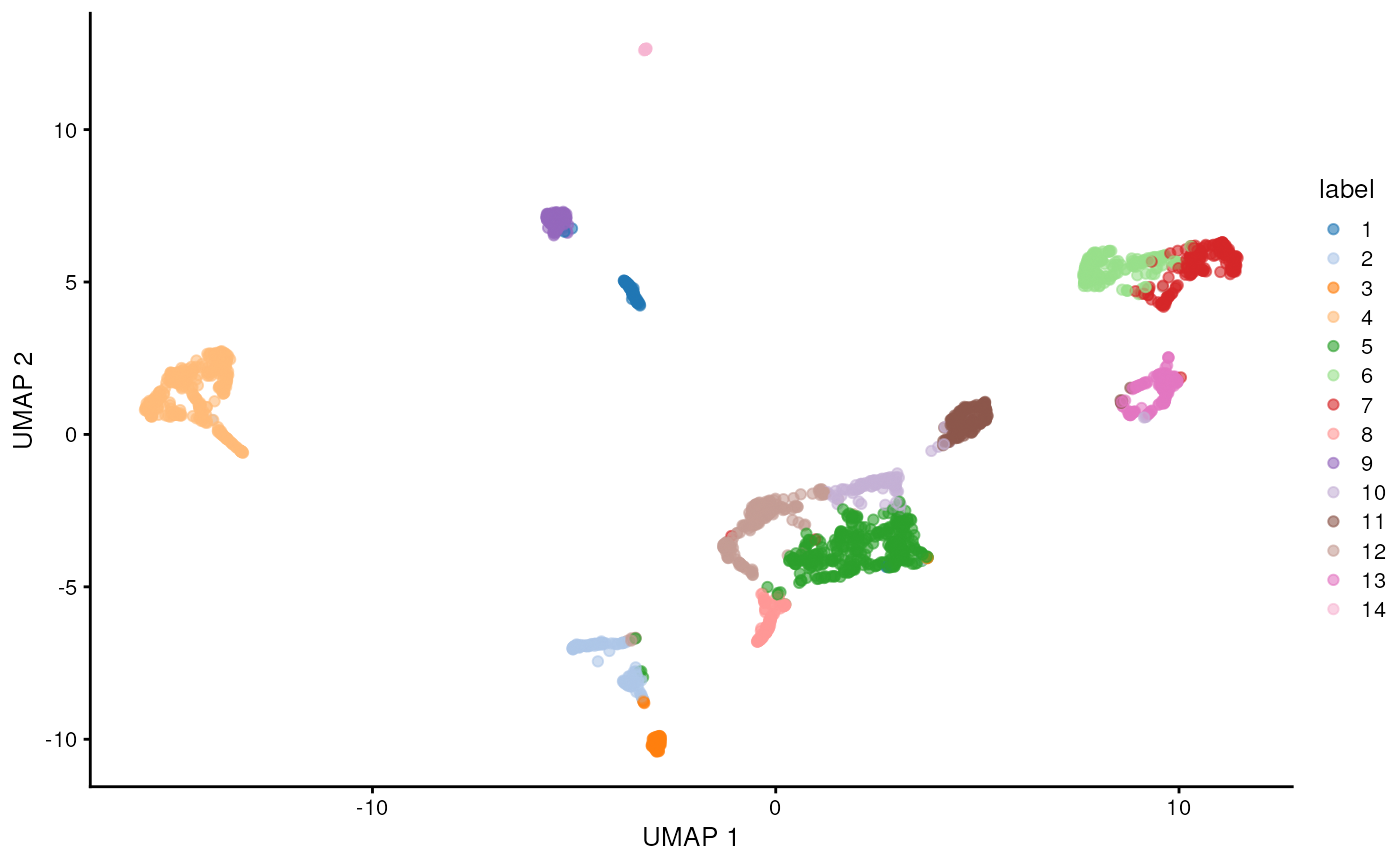
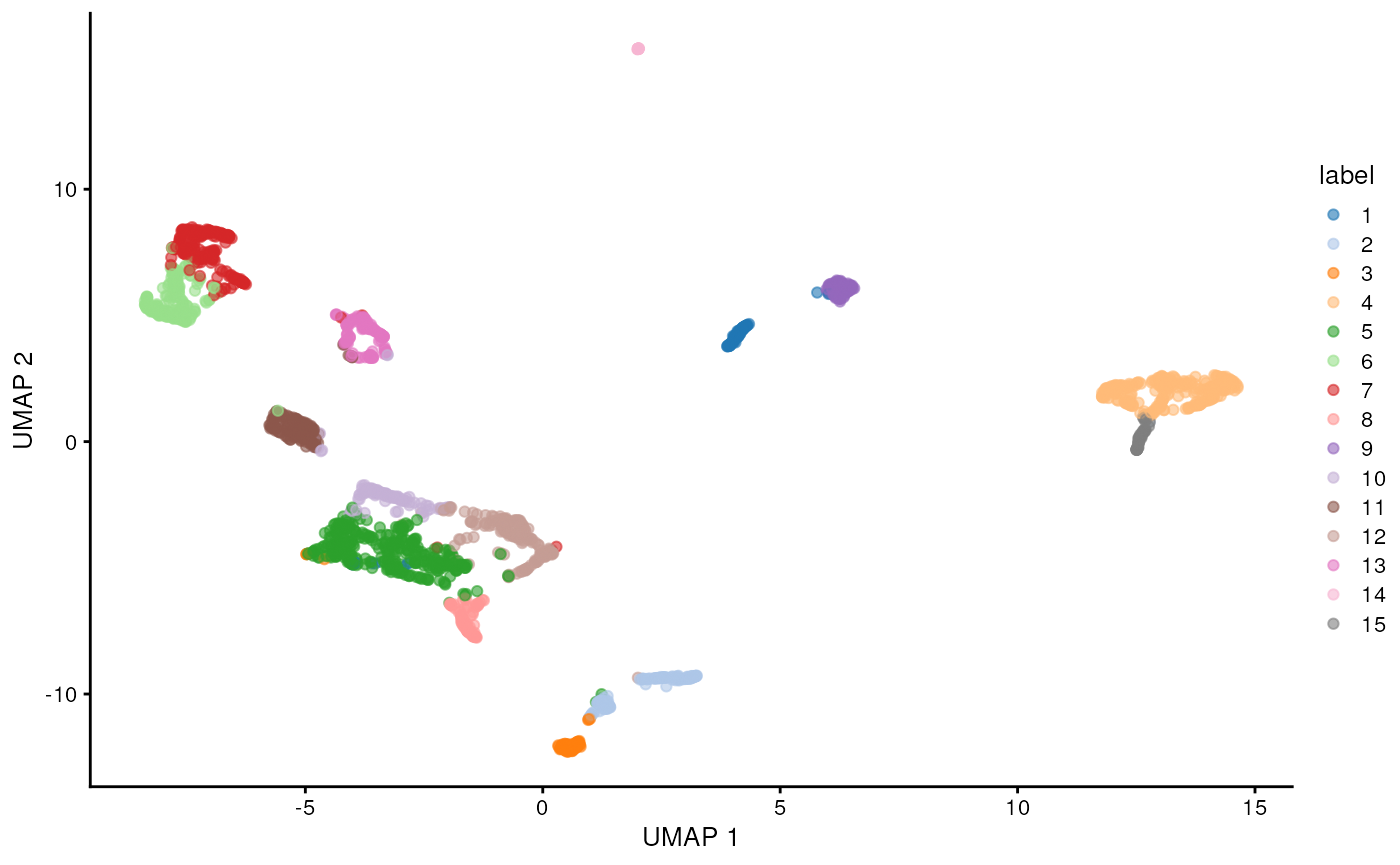
Deploying to gh-pages from @ Bioconductor/ISMB.OSCA@23236957839230d050c05fd3f0916738273243bc 🚀

diff --git a/articles/cell_type_annotation.html b/articles/cell_type_annotation.html
@@ -133,23 +133,6 @@
 <div class="sourceCode" id="cb4"><pre class="downlit sourceCode r">
 <code class="sourceCode R"><span><span class="va">sce</span> <span class="op">&lt;-</span> <span class="fu"><a href="https://rdrr.io/pkg/scuttle/man/logNormCounts.html" class="external-link">logNormCounts</a></span><span class="op">(</span><span class="va">sce</span><span class="op">)</span></span>
 <span><span class="va">sce</span> <span class="op">&lt;-</span> <span class="fu"><a href="https://rdrr.io/pkg/BiocSingular/man/runPCA.html" class="external-link">runPCA</a></span><span class="op">(</span><span class="va">sce</span><span class="op">)</span></span></code></pre></div>
-<pre><code><span><span class="co">## Warning: useNames = NA is deprecated. Instead, specify either useNames = TRUE</span></span>
-<span><span class="co">## or useNames = TRUE.</span></span>
-<span></span>
-<span><span class="co">## Warning: useNames = NA is deprecated. Instead, specify either useNames = TRUE</span></span>
-<span><span class="co">## or useNames = TRUE.</span></span>
-<span></span>
-<span><span class="co">## Warning: useNames = NA is deprecated. Instead, specify either useNames = TRUE</span></span>
-<span><span class="co">## or useNames = TRUE.</span></span>
-<span></span>
-<span><span class="co">## Warning: useNames = NA is deprecated. Instead, specify either useNames = TRUE</span></span>
-<span><span class="co">## or useNames = TRUE.</span></span>
-<span></span>
-<span><span class="co">## Warning: useNames = NA is deprecated. Instead, specify either useNames = TRUE</span></span>
-<span><span class="co">## or useNames = TRUE.</span></span>
-<span></span>
-<span><span class="co">## Warning: useNames = NA is deprecated. Instead, specify either useNames = TRUE</span></span>
-<span><span class="co">## or useNames = TRUE.</span></span></code></pre>
 </div>
 <div class="section level2">
 <h2 id="clustering">Clustering<a class="anchor" aria-label="anchor" href="#clustering"></a>
@@ -180,18 +163,18 @@ algorithm</a> for community detection. All calculations are performed
 using the top PCs to take advantage of data compression and denoising.
 This function returns a vector containing cluster assignments for each
 cell in our <code>SingleCellExperiment</code> object.</p>
-<div class="sourceCode" id="cb6"><pre class="downlit sourceCode r">
+<div class="sourceCode" id="cb5"><pre class="downlit sourceCode r">
 <code class="sourceCode R"><span><span class="fu"><a href="https://rdrr.io/pkg/SingleCellExperiment/man/colLabels.html" class="external-link">colLabels</a></span><span class="op">(</span><span class="va">sce</span><span class="op">)</span> <span class="op">&lt;-</span> <span class="fu"><a href="https://rdrr.io/pkg/scran/man/clusterCells.html" class="external-link">clusterCells</a></span><span class="op">(</span><span class="va">sce</span>, use.dimred <span class="op">=</span> <span class="st">"PCA"</span>,</span>
 <span>                               BLUSPARAM <span class="op">=</span> <span class="fu"><a href="https://rdrr.io/pkg/bluster/man/NNGraphParam-class.html" class="external-link">NNGraphParam</a></span><span class="op">(</span>cluster.fun <span class="op">=</span> <span class="st">"louvain"</span><span class="op">)</span><span class="op">)</span></span>
 <span><span class="fu"><a href="https://rdrr.io/r/base/table.html" class="external-link">table</a></span><span class="op">(</span><span class="fu"><a href="https://rdrr.io/pkg/SingleCellExperiment/man/colLabels.html" class="external-link">colLabels</a></span><span class="op">(</span><span class="va">sce</span><span class="op">)</span><span class="op">)</span></span></code></pre></div>
 <pre><code><span><span class="co">## </span></span>
-<span><span class="co">##   1   2   3   4   5   6   7   8   9  10  11  12  13  14 </span></span>
-<span><span class="co">##  91 144  75 397 397 209 246  95 108 114 154 215 146  20</span></span></code></pre>
+<span><span class="co">##   1   2   3   4   5   6   7   8   9  10  11  12  13  14  15 </span></span>
+<span><span class="co">##  95 144  77 341 392 210 246  95 108 120 153 208 146  20  56</span></span></code></pre>
 <p>We assign the cluster assignments back into our
 <code>SingleCellExperiment</code> object as a <code>factor</code> in the
 column metadata. This allows us to conveniently visualize the
 distribution of clusters in eg. a <em>t</em>-SNE or a UMAP.</p>
-<div class="sourceCode" id="cb8"><pre class="downlit sourceCode r">
+<div class="sourceCode" id="cb7"><pre class="downlit sourceCode r">
 <code class="sourceCode R"><span><span class="va">sce</span> <span class="op">&lt;-</span> <span class="fu"><a href="https://rdrr.io/pkg/scater/man/runUMAP.html" class="external-link">runUMAP</a></span><span class="op">(</span><span class="va">sce</span>, dimred <span class="op">=</span> <span class="st">"PCA"</span><span class="op">)</span></span>
 <span><span class="fu"><a href="https://rdrr.io/pkg/scater/man/plotReducedDim.html" class="external-link">plotReducedDim</a></span><span class="op">(</span><span class="va">sce</span>, <span class="st">"UMAP"</span>, color_by <span class="op">=</span> <span class="st">"label"</span><span class="op">)</span></span></code></pre></div>
 <p><img src="cell_type_annotation_files/figure-html/cluster-viz-1.png" width="700"></p>
@@ -207,9 +190,10 @@ the <code>cluster_leiden</code> function from the <a href="https://cran.r-projec
 package. Use the <code>cluster.args</code> argument to parameterize the
 clustering to use modularity as the objective function and a resolution
 parameter of 0.5.</p>
-<div class="section level3">
-<h3 id="marker-gene-detection">Marker gene detection<a class="anchor" aria-label="anchor" href="#marker-gene-detection"></a>
-</h3>
+</div>
+<div class="section level2">
+<h2 id="marker-gene-detection">Marker gene detection<a class="anchor" aria-label="anchor" href="#marker-gene-detection"></a>
+</h2>
 <p>To interpret clustering results as obtained in the previous section,
 we identify the genes that drive separation between clusters. These
 marker genes allow us to assign biological meaning to each cluster based
@@ -224,71 +208,59 @@ of cells in the clustering algorithm.</p>
 <p>Here, we perform a Wilcoxon rank sum test against a log2 fold change
 threshold of 1, focusing on up-regulated (positive) markers in one
 cluster when compared to another cluster.</p>
-<div class="sourceCode" id="cb9"><pre class="downlit sourceCode r">
-<code class="sourceCode R"><span><span class="va">markers</span> <span class="op">&lt;-</span> <span class="fu"><a href="https://rdrr.io/pkg/scran/man/findMarkers.html" class="external-link">findMarkers</a></span><span class="op">(</span><span class="va">sce</span>, test.type <span class="op">=</span> <span class="st">"wilcox"</span>, direction <span class="op">=</span> <span class="st">"up"</span>, lfc <span class="op">=</span> <span class="fl">1</span><span class="op">)</span></span>
+<div class="sourceCode" id="cb8"><pre class="downlit sourceCode r">
+<code class="sourceCode R"><span><span class="fu"><a href="https://rdrr.io/r/base/colnames.html" class="external-link">rownames</a></span><span class="op">(</span><span class="va">sce</span><span class="op">)</span> <span class="op">&lt;-</span> <span class="fu"><a href="https://rdrr.io/pkg/SummarizedExperiment/man/SummarizedExperiment-class.html" class="external-link">rowData</a></span><span class="op">(</span><span class="va">sce</span><span class="op">)</span><span class="op">$</span><span class="va">SYMBOL</span></span>
+<span><span class="va">markers</span> <span class="op">&lt;-</span> <span class="fu"><a href="https://rdrr.io/pkg/scran/man/findMarkers.html" class="external-link">findMarkers</a></span><span class="op">(</span><span class="va">sce</span>, test.type <span class="op">=</span> <span class="st">"wilcox"</span>, direction <span class="op">=</span> <span class="st">"up"</span>, lfc <span class="op">=</span> <span class="fl">1</span><span class="op">)</span></span>
 <span><span class="va">markers</span></span></code></pre></div>
-<pre><code><span><span class="co">## List of length 14</span></span>
-<span><span class="co">## names(14): 1 2 3 4 5 6 7 8 9 10 11 12 13 14</span></span></code></pre>
+<pre><code><span><span class="co">## List of length 15</span></span>
+<span><span class="co">## names(15): 1 2 3 4 5 6 7 8 9 10 11 12 13 14 15</span></span></code></pre>
 <p>The resulting object contains a sorted marker gene list for each
 cluster, in which the top genes are those that contribute the most to
 the separation of that cluster from mall other clusters.</p>
 <p>Here, we inspect the ranked marker gene list for the first
 cluster.</p>
-<div class="sourceCode" id="cb11"><pre class="downlit sourceCode r">
+<div class="sourceCode" id="cb10"><pre class="downlit sourceCode r">
 <code class="sourceCode R"><span><span class="va">markers</span><span class="op">[[</span><span class="fl">1</span><span class="op">]</span><span class="op">]</span></span></code></pre></div>
-<pre><code><span><span class="co">## DataFrame with 29453 rows and 17 columns</span></span>
-<span><span class="co">##                          Top     p.value         FDR summary.AUC     AUC.2</span></span>
-<span><span class="co">##                    &lt;integer&gt;   &lt;numeric&gt;   &lt;numeric&gt;   &lt;numeric&gt; &lt;numeric&gt;</span></span>
-<span><span class="co">## ENSMUSG00000049866         1 3.92896e-90 3.85732e-86    0.998644  0.908349</span></span>
-<span><span class="co">## ENSMUSG00000028023         1 1.40465e-80 4.59680e-77    0.952612  0.942308</span></span>
-<span><span class="co">## ENSMUSG00000003153         1 7.27172e-43 1.89535e-40    0.961359  0.890797</span></span>
-<span><span class="co">## ENSMUSG00000032060         1 1.76158e-73 3.45892e-70    0.958563  0.942537</span></span>
-<span><span class="co">## ENSMUSG00000042757         1 2.00077e-94 5.89286e-90    0.997979  0.944902</span></span>
-<span><span class="co">## ...                      ...         ...         ...         ...       ...</span></span>
-<span><span class="co">## ENSMUSG00000079794     29448           1           1           0         0</span></span>
-<span><span class="co">## ENSMUSG00000094799     29449           1           1           0         0</span></span>
-<span><span class="co">## ENSMUSG00000095019     29450           1           1           0         0</span></span>
-<span><span class="co">## ENSMUSG00000094915     29451           1           1           0         0</span></span>
-<span><span class="co">## ENSMUSG00000096730     29453           1           1           0         0</span></span>
-<span><span class="co">##                        AUC.3     AUC.4     AUC.5     AUC.6     AUC.7     AUC.8</span></span>
-<span><span class="co">##                    &lt;numeric&gt; &lt;numeric&gt; &lt;numeric&gt; &lt;numeric&gt; &lt;numeric&gt; &lt;numeric&gt;</span></span>
-<span><span class="co">## ENSMUSG00000049866  0.991502  0.998644  0.669499  0.911562  0.864514  0.942279</span></span>
-<span><span class="co">## ENSMUSG00000028023  0.774359  0.952612  0.810696  0.952101  0.948718  0.759630</span></span>
-<span><span class="co">## ENSMUSG00000003153  0.937729  0.961359  0.879481  0.696041  0.705843  0.886293</span></span>
-<span><span class="co">## ENSMUSG00000032060  0.909890  0.958563  0.953691  0.962721  0.963191  0.262348</span></span>
-<span><span class="co">## ENSMUSG00000042757  0.912674  0.997979  0.934564  0.962091  0.934691  0.665703</span></span>
-<span><span class="co">## ...                      ...       ...       ...       ...       ...       ...</span></span>
-<span><span class="co">## ENSMUSG00000079794         0         0         0         0         0         0</span></span>
-<span><span class="co">## ENSMUSG00000094799         0         0         0         0         0         0</span></span>
-<span><span class="co">## ENSMUSG00000095019         0         0         0         0         0         0</span></span>
-<span><span class="co">## ENSMUSG00000094915         0         0         0         0         0         0</span></span>
-<span><span class="co">## ENSMUSG00000096730         0         0         0         0         0         0</span></span>
-<span><span class="co">##                        AUC.9    AUC.10    AUC.11    AUC.12    AUC.13</span></span>
-<span><span class="co">##                    &lt;numeric&gt; &lt;numeric&gt; &lt;numeric&gt; &lt;numeric&gt; &lt;numeric&gt;</span></span>
-<span><span class="co">## ENSMUSG00000049866  0.870065  0.979853  0.942914  0.924406  0.735059</span></span>
-<span><span class="co">## ENSMUSG00000028023  0.421245  0.935512  0.952547  0.878456  0.853229</span></span>
-<span><span class="co">## ENSMUSG00000003153  0.894587  0.944573  0.386685  0.962075  0.299187</span></span>
-<span><span class="co">## ENSMUSG00000032060  0.349105  0.957297  0.959612  0.957271  0.917883</span></span>
-<span><span class="co">## ENSMUSG00000042757  0.395910  0.983420  0.956615  0.963046  0.959506</span></span>
-<span><span class="co">## ...                      ...       ...       ...       ...       ...</span></span>
-<span><span class="co">## ENSMUSG00000079794         0         0         0         0         0</span></span>
-<span><span class="co">## ENSMUSG00000094799         0         0         0         0         0</span></span>
-<span><span class="co">## ENSMUSG00000095019         0         0         0         0         0</span></span>
-<span><span class="co">## ENSMUSG00000094915         0         0         0         0         0</span></span>
-<span><span class="co">## ENSMUSG00000096730         0         0         0         0         0</span></span>
-<span><span class="co">##                         AUC.14</span></span>
-<span><span class="co">##                      &lt;numeric&gt;</span></span>
-<span><span class="co">## ENSMUSG00000049866 0.095604396</span></span>
-<span><span class="co">## ENSMUSG00000028023 0.938461538</span></span>
-<span><span class="co">## ENSMUSG00000003153 0.000549451</span></span>
-<span><span class="co">## ENSMUSG00000032060 0.459890110</span></span>
-<span><span class="co">## ENSMUSG00000042757 0.567582418</span></span>
-<span><span class="co">## ...                        ...</span></span>
-<span><span class="co">## ENSMUSG00000079794           0</span></span>
-<span><span class="co">## ENSMUSG00000094799           0</span></span>
-<span><span class="co">## ENSMUSG00000095019           0</span></span>
-<span><span class="co">## ENSMUSG00000094915           0</span></span>
-<span><span class="co">## ENSMUSG00000096730           0</span></span></code></pre>
+<pre><code><span><span class="co">## DataFrame with 29453 rows and 18 columns</span></span>
+<span><span class="co">##                  Top     p.value         FDR summary.AUC     AUC.2     AUC.3</span></span>
+<span><span class="co">##            &lt;integer&gt;   &lt;numeric&gt;   &lt;numeric&gt;   &lt;numeric&gt; &lt;numeric&gt; &lt;numeric&gt;</span></span>
+<span><span class="co">## Arl4c              1 2.65826e-83 3.91468e-79    0.998796  0.905482  0.990157</span></span>
+<span><span class="co">## Pitx2              1 2.12479e-70 6.25814e-67    0.943973  0.932968  0.764320</span></span>
+<span><span class="co">## Msx1               1 3.82512e-55 2.08632e-52    0.948727  0.887573  0.572112</span></span>
+<span><span class="co">## Slc2a3             1 4.05884e-43 1.10690e-40    0.961506  0.872515  0.918113</span></span>
+<span><span class="co">## Cryab              1 1.19792e-60 9.28481e-58    0.923335  0.911915  0.880519</span></span>
+<span><span class="co">## ...              ...         ...         ...         ...       ...       ...</span></span>
+<span><span class="co">## AC125149.2     29448           1           1           0         0         0</span></span>
+<span><span class="co">## AC125149.4     29449           1           1           0         0         0</span></span>
+<span><span class="co">## AC234645.1     29450           1           1           0         0         0</span></span>
+<span><span class="co">## AC168977.2     29451           1           1           0         0         0</span></span>
+<span><span class="co">## Vmn2r122       29453           1           1           0         0         0</span></span>
+<span><span class="co">##                AUC.4     AUC.5     AUC.6     AUC.7     AUC.8     AUC.9</span></span>
+<span><span class="co">##            &lt;numeric&gt; &lt;numeric&gt; &lt;numeric&gt; &lt;numeric&gt; &lt;numeric&gt; &lt;numeric&gt;</span></span>
+<span><span class="co">## Arl4c       0.998796  0.663561  0.907068  0.858451  0.939391  0.863840</span></span>
+<span><span class="co">## Pitx2       0.943973  0.798926  0.943208  0.939538  0.750360  0.406725</span></span>
+<span><span class="co">## Msx1        0.948727  0.494280  0.835890  0.887634  0.936510  0.741618</span></span>
+<span><span class="co">## Slc2a3      0.961506  0.861654  0.672632  0.680359  0.867922  0.874659</span></span>
+<span><span class="co">## Cryab       0.928261  0.923335  0.932481  0.932777  0.252078  0.334600</span></span>
+<span><span class="co">## ...              ...       ...       ...       ...       ...       ...</span></span>
+<span><span class="co">## AC125149.2         0         0         0         0         0         0</span></span>
+<span><span class="co">## AC125149.4         0         0         0         0         0         0</span></span>
+<span><span class="co">## AC234645.1         0         0         0         0         0         0</span></span>
+<span><span class="co">## AC168977.2         0         0         0         0         0         0</span></span>
+<span><span class="co">## Vmn2r122           0         0         0         0         0         0</span></span>
+<span><span class="co">##               AUC.10    AUC.11    AUC.12    AUC.13      AUC.14    AUC.15</span></span>
+<span><span class="co">##            &lt;numeric&gt; &lt;numeric&gt; &lt;numeric&gt; &lt;numeric&gt;   &lt;numeric&gt; &lt;numeric&gt;</span></span>
+<span><span class="co">## Arl4c       0.978684  0.938424  0.919534  0.727181 0.092631579  0.997368</span></span>
+<span><span class="co">## Pitx2       0.925088  0.943584  0.867206  0.844484 0.928947368  0.942105</span></span>
+<span><span class="co">## Msx1        0.711228  0.494118  0.913411  0.704831 0.395789474  0.953759</span></span>
+<span><span class="co">## Slc2a3      0.934649  0.368903  0.952379  0.287671 0.000526316  0.877820</span></span>
+<span><span class="co">## Cryab       0.924474  0.929068  0.928188  0.887383 0.441052632  0.926692</span></span>
+<span><span class="co">## ...              ...       ...       ...       ...         ...       ...</span></span>
+<span><span class="co">## AC125149.2         0         0         0         0           0         0</span></span>
+<span><span class="co">## AC125149.4         0         0         0         0           0         0</span></span>
+<span><span class="co">## AC234645.1         0         0         0         0           0         0</span></span>
+<span><span class="co">## AC168977.2         0         0         0         0           0         0</span></span>
+<span><span class="co">## Vmn2r122           0         0         0         0           0         0</span></span></code></pre>
 <p>The <code>Top</code> field provides the the minimum rank across all
 pairwise comparisons. The <code>p.value</code> field provides the
 combined <em>p</em>-value across all comparisons, and the
@@ -301,11 +273,10 @@ cell in cluster <em>A</em> has a greater expression of gene <em>X</em>
 than a randomly selected cell in <em>B</em>.</p>
 <p>We can then inspect the top marker genes for the first cluster using
 the <code>plotExpression</code> function from the <a href="https://bioconductor.org/packages/scater" class="external-link">scater</a> package.</p>
-<div class="sourceCode" id="cb13"><pre class="downlit sourceCode r">
+<div class="sourceCode" id="cb12"><pre class="downlit sourceCode r">
 <code class="sourceCode R"><span><span class="va">top.markers</span> <span class="op">&lt;-</span> <span class="fu"><a href="https://rdrr.io/r/utils/head.html" class="external-link">head</a></span><span class="op">(</span><span class="fu"><a href="https://rdrr.io/r/base/colnames.html" class="external-link">rownames</a></span><span class="op">(</span><span class="va">markers</span><span class="op">[[</span><span class="fl">1</span><span class="op">]</span><span class="op">]</span><span class="op">)</span><span class="op">)</span></span>
 <span><span class="fu"><a href="https://rdrr.io/pkg/scater/man/plotExpression.html" class="external-link">plotExpression</a></span><span class="op">(</span><span class="va">sce</span>, features <span class="op">=</span> <span class="va">top.markers</span>, x <span class="op">=</span> <span class="st">"label"</span>, color_by <span class="op">=</span> <span class="st">"label"</span><span class="op">)</span></span></code></pre></div>
 <p><img src="cell_type_annotation_files/figure-html/plot-markers-1.png" width="960"></p>
-</div>
 </div>
 <div class="section level2">
 <h2 id="cell-type-annotation">Cell type annotation<a class="anchor" aria-label="anchor" href="#cell-type-annotation"></a>
@@ -334,7 +305,7 @@ different scRNA-seq datasets.</p>
 <div class="section level3">
 <h3 id="assigning-cell-labels-from-reference-data">Assigning cell labels from reference data<a class="anchor" aria-label="anchor" href="#assigning-cell-labels-from-reference-data"></a>
 </h3>
-<div class="sourceCode" id="cb14"><pre class="downlit sourceCode r">
+<div class="sourceCode" id="cb13"><pre class="downlit sourceCode r">
 <code class="sourceCode R"><span><span class="va">ref</span> <span class="op">&lt;-</span> <span class="fu"><a href="https://rdrr.io/pkg/MouseGastrulationData/man/EmbryoAtlasData.html" class="external-link">EmbryoAtlasData</a></span><span class="op">(</span>samples <span class="op">=</span> <span class="fl">1</span><span class="op">:</span><span class="fl">2</span><span class="op">)</span></span>
 <span><span class="va">ref</span></span></code></pre></div>
 <pre><code><span><span class="co">## class: SingleCellExperiment </span></span>
@@ -349,7 +320,7 @@ different scRNA-seq datasets.</p>
 <span><span class="co">## reducedDimNames(2): pca.corrected umap</span></span>
 <span><span class="co">## mainExpName: NULL</span></span>
 <span><span class="co">## altExpNames(0):</span></span></code></pre>
-<div class="sourceCode" id="cb16"><pre class="downlit sourceCode r">
+<div class="sourceCode" id="cb15"><pre class="downlit sourceCode r">
 <code class="sourceCode R"><span><span class="fu"><a href="https://rdrr.io/r/base/sort.html" class="external-link">sort</a></span><span class="op">(</span><span class="fu"><a href="https://rdrr.io/r/base/table.html" class="external-link">table</a></span><span class="op">(</span><span class="va">ref</span><span class="op">$</span><span class="va">celltype</span><span class="op">)</span>, decreasing <span class="op">=</span> <span class="cn">TRUE</span><span class="op">)</span></span></code></pre></div>
 <pre><code><span><span class="co">## </span></span>
 <span><span class="co">##                       Epiblast                   ExE ectoderm </span></span>
@@ -378,101 +349,25 @@ different scRNA-seq datasets.</p>
 <span><span class="co">##                              2                              2 </span></span>
 <span><span class="co">##                     Erythroid1 </span></span>
 <span><span class="co">##                              1</span></span></code></pre>
-<div class="sourceCode" id="cb18"><pre class="downlit sourceCode r">
+<div class="sourceCode" id="cb17"><pre class="downlit sourceCode r">
 <code class="sourceCode R"><span><span class="va">ref</span> <span class="op">&lt;-</span> <span class="fu"><a href="https://rdrr.io/pkg/scuttle/man/logNormCounts.html" class="external-link">logNormCounts</a></span><span class="op">(</span><span class="va">ref</span><span class="op">)</span></span></code></pre></div>
 <p>Some cleaning - remove cells for cell type annotation is missing.</p>
-<div class="sourceCode" id="cb19"><pre class="downlit sourceCode r">
+<div class="sourceCode" id="cb18"><pre class="downlit sourceCode r">
 <code class="sourceCode R"><span><span class="va">nna</span> <span class="op">&lt;-</span> <span class="op">!</span><span class="fu"><a href="https://rdrr.io/r/base/NA.html" class="external-link">is.na</a></span><span class="op">(</span><span class="va">ref</span><span class="op">$</span><span class="va">celltype</span><span class="op">)</span></span>
 <span><span class="va">ref</span> <span class="op">&lt;-</span> <span class="va">ref</span><span class="op">[</span>,<span class="va">nna</span><span class="op">]</span></span></code></pre></div>
 <p>Restrict to genes shared between query and reference dataset.</p>
-<div class="sourceCode" id="cb20"><pre class="downlit sourceCode r">
-<code class="sourceCode R"><span><span class="va">isect</span> <span class="op">&lt;-</span> <span class="fu"><a href="https://rdrr.io/r/base/sets.html" class="external-link">intersect</a></span><span class="op">(</span><span class="fu"><a href="https://rdrr.io/r/base/colnames.html" class="external-link">rownames</a></span><span class="op">(</span><span class="va">sce</span><span class="op">)</span>, <span class="fu"><a href="https://rdrr.io/r/base/colnames.html" class="external-link">rownames</a></span><span class="op">(</span><span class="va">ref</span><span class="op">)</span><span class="op">)</span></span>
+<div class="sourceCode" id="cb19"><pre class="downlit sourceCode r">
+<code class="sourceCode R"><span><span class="fu"><a href="https://rdrr.io/r/base/colnames.html" class="external-link">rownames</a></span><span class="op">(</span><span class="va">ref</span><span class="op">)</span> <span class="op">&lt;-</span> <span class="fu"><a href="https://rdrr.io/pkg/SummarizedExperiment/man/SummarizedExperiment-class.html" class="external-link">rowData</a></span><span class="op">(</span><span class="va">ref</span><span class="op">)</span><span class="op">$</span><span class="va">SYMBOL</span></span>
+<span><span class="va">isect</span> <span class="op">&lt;-</span> <span class="fu"><a href="https://rdrr.io/r/base/sets.html" class="external-link">intersect</a></span><span class="op">(</span><span class="fu"><a href="https://rdrr.io/r/base/colnames.html" class="external-link">rownames</a></span><span class="op">(</span><span class="va">sce</span><span class="op">)</span>, <span class="fu"><a href="https://rdrr.io/r/base/colnames.html" class="external-link">rownames</a></span><span class="op">(</span><span class="va">ref</span><span class="op">)</span><span class="op">)</span></span>
 <span><span class="va">sce</span> <span class="op">&lt;-</span> <span class="va">sce</span><span class="op">[</span><span class="va">isect</span>,<span class="op">]</span></span>
 <span><span class="va">ref</span> <span class="op">&lt;-</span> <span class="va">ref</span><span class="op">[</span><span class="va">isect</span>,<span class="op">]</span></span></code></pre></div>
 <p>Convert sparse assay matrices to regular dense matrices for input to
 SingleR.</p>
-<div class="sourceCode" id="cb21"><pre class="downlit sourceCode r">
+<div class="sourceCode" id="cb20"><pre class="downlit sourceCode r">
 <code class="sourceCode R"><span><span class="va">sce.mat</span> <span class="op">&lt;-</span> <span class="fu"><a href="https://rdrr.io/r/base/matrix.html" class="external-link">as.matrix</a></span><span class="op">(</span><span class="fu"><a href="https://rdrr.io/pkg/SummarizedExperiment/man/SummarizedExperiment-class.html" class="external-link">assay</a></span><span class="op">(</span><span class="va">sce</span>, <span class="st">"logcounts"</span><span class="op">)</span><span class="op">)</span></span>
 <span><span class="va">ref.mat</span> <span class="op">&lt;-</span> <span class="fu"><a href="https://rdrr.io/r/base/matrix.html" class="external-link">as.matrix</a></span><span class="op">(</span><span class="fu"><a href="https://rdrr.io/pkg/SummarizedExperiment/man/SummarizedExperiment-class.html" class="external-link">assay</a></span><span class="op">(</span><span class="va">ref</span>, <span class="st">"logcounts"</span><span class="op">)</span><span class="op">)</span></span></code></pre></div>
-<div class="sourceCode" id="cb22"><pre class="downlit sourceCode r">
+<div class="sourceCode" id="cb21"><pre class="downlit sourceCode r">
 <code class="sourceCode R"><span><span class="va">res</span> <span class="op">&lt;-</span> <span class="fu"><a href="https://rdrr.io/pkg/SingleR/man/SingleR.html" class="external-link">SingleR</a></span><span class="op">(</span>test <span class="op">=</span> <span class="va">sce.mat</span>, ref <span class="op">=</span> <span class="va">ref.mat</span>, labels <span class="op">=</span> <span class="va">ref</span><span class="op">$</span><span class="va">celltype</span><span class="op">)</span></span></code></pre></div>
-<pre><code><span><span class="co">## Warning: useNames = NA is deprecated. Instead, specify either useNames = TRUE</span></span>
-<span><span class="co">## or useNames = TRUE.</span></span>
-<span></span>
-<span><span class="co">## Warning: useNames = NA is deprecated. Instead, specify either useNames = TRUE</span></span>
-<span><span class="co">## or useNames = TRUE.</span></span>
-<span></span>
-<span><span class="co">## Warning: useNames = NA is deprecated. Instead, specify either useNames = TRUE</span></span>
-<span><span class="co">## or useNames = TRUE.</span></span>
-<span></span>
-<span><span class="co">## Warning: useNames = NA is deprecated. Instead, specify either useNames = TRUE</span></span>
-<span><span class="co">## or useNames = TRUE.</span></span>
-<span></span>
-<span><span class="co">## Warning: useNames = NA is deprecated. Instead, specify either useNames = TRUE</span></span>
-<span><span class="co">## or useNames = TRUE.</span></span>
-<span></span>
-<span><span class="co">## Warning: useNames = NA is deprecated. Instead, specify either useNames = TRUE</span></span>
-<span><span class="co">## or useNames = TRUE.</span></span>
-<span></span>
-<span><span class="co">## Warning: useNames = NA is deprecated. Instead, specify either useNames = TRUE</span></span>
-<span><span class="co">## or useNames = TRUE.</span></span>
-<span></span>
-<span><span class="co">## Warning: useNames = NA is deprecated. Instead, specify either useNames = TRUE</span></span>
-<span><span class="co">## or useNames = TRUE.</span></span>
-<span></span>
-<span><span class="co">## Warning: useNames = NA is deprecated. Instead, specify either useNames = TRUE</span></span>
-<span><span class="co">## or useNames = TRUE.</span></span>
-<span></span>
-<span><span class="co">## Warning: useNames = NA is deprecated. Instead, specify either useNames = TRUE</span></span>
-<span><span class="co">## or useNames = TRUE.</span></span>
-<span></span>
-<span><span class="co">## Warning: useNames = NA is deprecated. Instead, specify either useNames = TRUE</span></span>
-<span><span class="co">## or useNames = TRUE.</span></span>
-<span></span>
-<span><span class="co">## Warning: useNames = NA is deprecated. Instead, specify either useNames = TRUE</span></span>
-<span><span class="co">## or useNames = TRUE.</span></span>
-<span></span>
-<span><span class="co">## Warning: useNames = NA is deprecated. Instead, specify either useNames = TRUE</span></span>
-<span><span class="co">## or useNames = TRUE.</span></span>
-<span></span>
-<span><span class="co">## Warning: useNames = NA is deprecated. Instead, specify either useNames = TRUE</span></span>
-<span><span class="co">## or useNames = TRUE.</span></span>
-<span></span>
-<span><span class="co">## Warning: useNames = NA is deprecated. Instead, specify either useNames = TRUE</span></span>
-<span><span class="co">## or useNames = TRUE.</span></span>
-<span></span>
-<span><span class="co">## Warning: useNames = NA is deprecated. Instead, specify either useNames = TRUE</span></span>
-<span><span class="co">## or useNames = TRUE.</span></span>
-<span></span>
-<span><span class="co">## Warning: useNames = NA is deprecated. Instead, specify either useNames = TRUE</span></span>
-<span><span class="co">## or useNames = TRUE.</span></span>
-<span></span>
-<span><span class="co">## Warning: useNames = NA is deprecated. Instead, specify either useNames = TRUE</span></span>
-<span><span class="co">## or useNames = TRUE.</span></span>
-<span></span>
-<span><span class="co">## Warning: useNames = NA is deprecated. Instead, specify either useNames = TRUE</span></span>
-<span><span class="co">## or useNames = TRUE.</span></span>
-<span></span>
-<span><span class="co">## Warning: useNames = NA is deprecated. Instead, specify either useNames = TRUE</span></span>
-<span><span class="co">## or useNames = TRUE.</span></span>
-<span></span>
-<span><span class="co">## Warning: useNames = NA is deprecated. Instead, specify either useNames = TRUE</span></span>
-<span><span class="co">## or useNames = TRUE.</span></span>
-<span></span>
-<span><span class="co">## Warning: useNames = NA is deprecated. Instead, specify either useNames = TRUE</span></span>
-<span><span class="co">## or useNames = TRUE.</span></span>
-<span></span>
-<span><span class="co">## Warning: useNames = NA is deprecated. Instead, specify either useNames = TRUE</span></span>
-<span><span class="co">## or useNames = TRUE.</span></span>
-<span></span>
-<span><span class="co">## Warning: useNames = NA is deprecated. Instead, specify either useNames = TRUE</span></span>
-<span><span class="co">## or useNames = TRUE.</span></span>
-<span></span>
-<span><span class="co">## Warning: useNames = NA is deprecated. Instead, specify either useNames = TRUE</span></span>
-<span><span class="co">## or useNames = TRUE.</span></span>
-<span></span>
-<span><span class="co">## Warning: useNames = NA is deprecated. Instead, specify either useNames = TRUE</span></span>
-<span><span class="co">## or useNames = TRUE.</span></span></code></pre>
 </div>
 <div class="section level3">
 <h3 id="assigning-cell-labels-from-gene-sets">Assigning cell labels from gene sets<a class="anchor" aria-label="anchor" href="#assigning-cell-labels-from-gene-sets"></a>

diff --git a/articles/large_data.html b/articles/large_data.html
@@ -281,23 +281,10 @@ depending on the available hardware and operating system.</p>
 variance calculations on a Unix system:</p>
 <div class="sourceCode" id="cb16"><pre class="downlit sourceCode r">
 <code class="sourceCode R"><span><span class="kw"><a href="https://rdrr.io/r/base/library.html" class="external-link">library</a></span><span class="op">(</span><span class="va"><a href="https://github.com/Bioconductor/BiocParallel" class="external-link">BiocParallel</a></span><span class="op">)</span></span>
-<span><span class="kw"><a href="https://rdrr.io/r/base/library.html" class="external-link">library</a></span><span class="op">(</span><span class="va"><a href="https://github.com/MarioniLab/MouseGastrulationData" class="external-link">MouseGastrulationData</a></span><span class="op">)</span></span></code></pre></div>
-<pre><code><span><span class="co">## Loading required package: SpatialExperiment</span></span></code></pre>
-<div class="sourceCode" id="cb18"><pre class="downlit sourceCode r">
-<code class="sourceCode R"><span><span class="kw"><a href="https://rdrr.io/r/base/library.html" class="external-link">library</a></span><span class="op">(</span><span class="va">scran</span><span class="op">)</span></span>
-<span><span class="va">sce</span> <span class="op">&lt;-</span> <span class="fu"><a href="https://rdrr.io/pkg/MouseGastrulationData/man/WTChimeraData.html" class="external-link">WTChimeraData</a></span><span class="op">(</span>samples <span class="op">=</span> <span class="fl">5</span>, type <span class="op">=</span> <span class="st">"processed"</span><span class="op">)</span></span></code></pre></div>
-<pre><code><span><span class="co">## see ?MouseGastrulationData and browseVignettes('MouseGastrulationData') for documentation</span></span></code></pre>
-<pre><code><span><span class="co">## loading from cache</span></span></code></pre>
-<pre><code><span><span class="co">## see ?MouseGastrulationData and browseVignettes('MouseGastrulationData') for documentation</span></span></code></pre>
-<pre><code><span><span class="co">## loading from cache</span></span></code></pre>
-<pre><code><span><span class="co">## see ?MouseGastrulationData and browseVignettes('MouseGastrulationData') for documentation</span></span></code></pre>
-<pre><code><span><span class="co">## loading from cache</span></span></code></pre>
-<pre><code><span><span class="co">## see ?MouseGastrulationData and browseVignettes('MouseGastrulationData') for documentation</span></span></code></pre>
-<pre><code><span><span class="co">## loading from cache</span></span></code></pre>
-<pre><code><span><span class="co">## see ?MouseGastrulationData and browseVignettes('MouseGastrulationData') for documentation</span></span></code></pre>
-<pre><code><span><span class="co">## loading from cache</span></span></code></pre>
-<div class="sourceCode" id="cb29"><pre class="downlit sourceCode r">
-<code class="sourceCode R"><span><span class="va">sce</span> <span class="op">&lt;-</span> <span class="fu"><a href="https://rdrr.io/pkg/scuttle/man/logNormCounts.html" class="external-link">logNormCounts</a></span><span class="op">(</span><span class="va">sce</span><span class="op">)</span></span>
+<span><span class="kw"><a href="https://rdrr.io/r/base/library.html" class="external-link">library</a></span><span class="op">(</span><span class="va"><a href="https://github.com/MarioniLab/MouseGastrulationData" class="external-link">MouseGastrulationData</a></span><span class="op">)</span></span>
+<span><span class="kw"><a href="https://rdrr.io/r/base/library.html" class="external-link">library</a></span><span class="op">(</span><span class="va">scran</span><span class="op">)</span></span>
+<span><span class="va">sce</span> <span class="op">&lt;-</span> <span class="fu"><a href="https://rdrr.io/pkg/MouseGastrulationData/man/WTChimeraData.html" class="external-link">WTChimeraData</a></span><span class="op">(</span>samples <span class="op">=</span> <span class="fl">5</span>, type <span class="op">=</span> <span class="st">"processed"</span><span class="op">)</span></span>
+<span><span class="va">sce</span> <span class="op">&lt;-</span> <span class="fu"><a href="https://rdrr.io/pkg/scuttle/man/logNormCounts.html" class="external-link">logNormCounts</a></span><span class="op">(</span><span class="va">sce</span><span class="op">)</span></span>
 <span><span class="va">dec.mc</span> <span class="op">&lt;-</span> <span class="fu"><a href="https://rdrr.io/pkg/scran/man/modelGeneVar.html" class="external-link">modelGeneVar</a></span><span class="op">(</span><span class="va">sce</span>, BPPARAM <span class="op">=</span> <span class="fu"><a href="https://rdrr.io/pkg/BiocParallel/man/MulticoreParam-class.html" class="external-link">MulticoreParam</a></span><span class="op">(</span><span class="fl">2</span><span class="op">)</span><span class="op">)</span></span>
 <span><span class="va">dec.mc</span></span></code></pre></div>
 <pre><code><span><span class="co">## DataFrame with 29453 rows and 6 columns</span></span>
@@ -329,7 +316,7 @@ variance calculations on a Unix system:</p>
 <span><span class="co">## tomato-td             0.756203</span></span></code></pre>
 <p>Another approach would be to distribute jobs across a network of
 computers, which yields the same result:</p>
-<div class="sourceCode" id="cb31"><pre class="downlit sourceCode r">
+<div class="sourceCode" id="cb18"><pre class="downlit sourceCode r">
 <code class="sourceCode R"><span><span class="va">dec.snow</span> <span class="op">&lt;-</span> <span class="fu"><a href="https://rdrr.io/pkg/scran/man/modelGeneVar.html" class="external-link">modelGeneVar</a></span><span class="op">(</span><span class="va">sce</span>, BPPARAM <span class="op">=</span> <span class="fu"><a href="https://rdrr.io/pkg/BiocParallel/man/SnowParam-class.html" class="external-link">SnowParam</a></span><span class="op">(</span><span class="fl">2</span><span class="op">)</span><span class="op">)</span></span>
 <span><span class="va">dec.snow</span></span></code></pre></div>
 <pre><code><span><span class="co">## DataFrame with 29453 rows and 6 columns</span></span>
@@ -365,7 +352,7 @@ compute nodes, we can distribute jobs via the job scheduler using the
 cluster, though the settings can be easily configured for a particular
 system (see <a href="https://bioconductor.org/packages/3.17/BiocParallel/vignettes/BiocParallel_BatchtoolsParam.pdf" class="external-link">here</a>
 for details).</p>
-<div class="sourceCode" id="cb33"><pre class="downlit sourceCode r">
+<div class="sourceCode" id="cb20"><pre class="downlit sourceCode r">
 <code class="sourceCode R"><span><span class="co"># 2 hours, 8 GB, 1 CPU per task, for 10 tasks.</span></span>
 <span><span class="va">rs</span> <span class="op">&lt;-</span> <span class="fu"><a href="https://rdrr.io/r/base/list.html" class="external-link">list</a></span><span class="op">(</span>walltime <span class="op">=</span> <span class="fl">7200</span>, memory <span class="op">=</span> <span class="fl">8000</span>, ncpus <span class="op">=</span> <span class="fl">1</span><span class="op">)</span></span>
 <span><span class="va">bpp</span> <span class="op">&lt;-</span> <span class="fu"><a href="https://rdrr.io/pkg/BiocParallel/man/BatchtoolsParam-class.html" class="external-link">BatchtoolsParam</a></span><span class="op">(</span><span class="fl">10</span>, cluster <span class="op">=</span> <span class="st">"slurm"</span>, resources <span class="op">=</span> <span class="va">rs</span><span class="op">)</span></span></code></pre></div>
